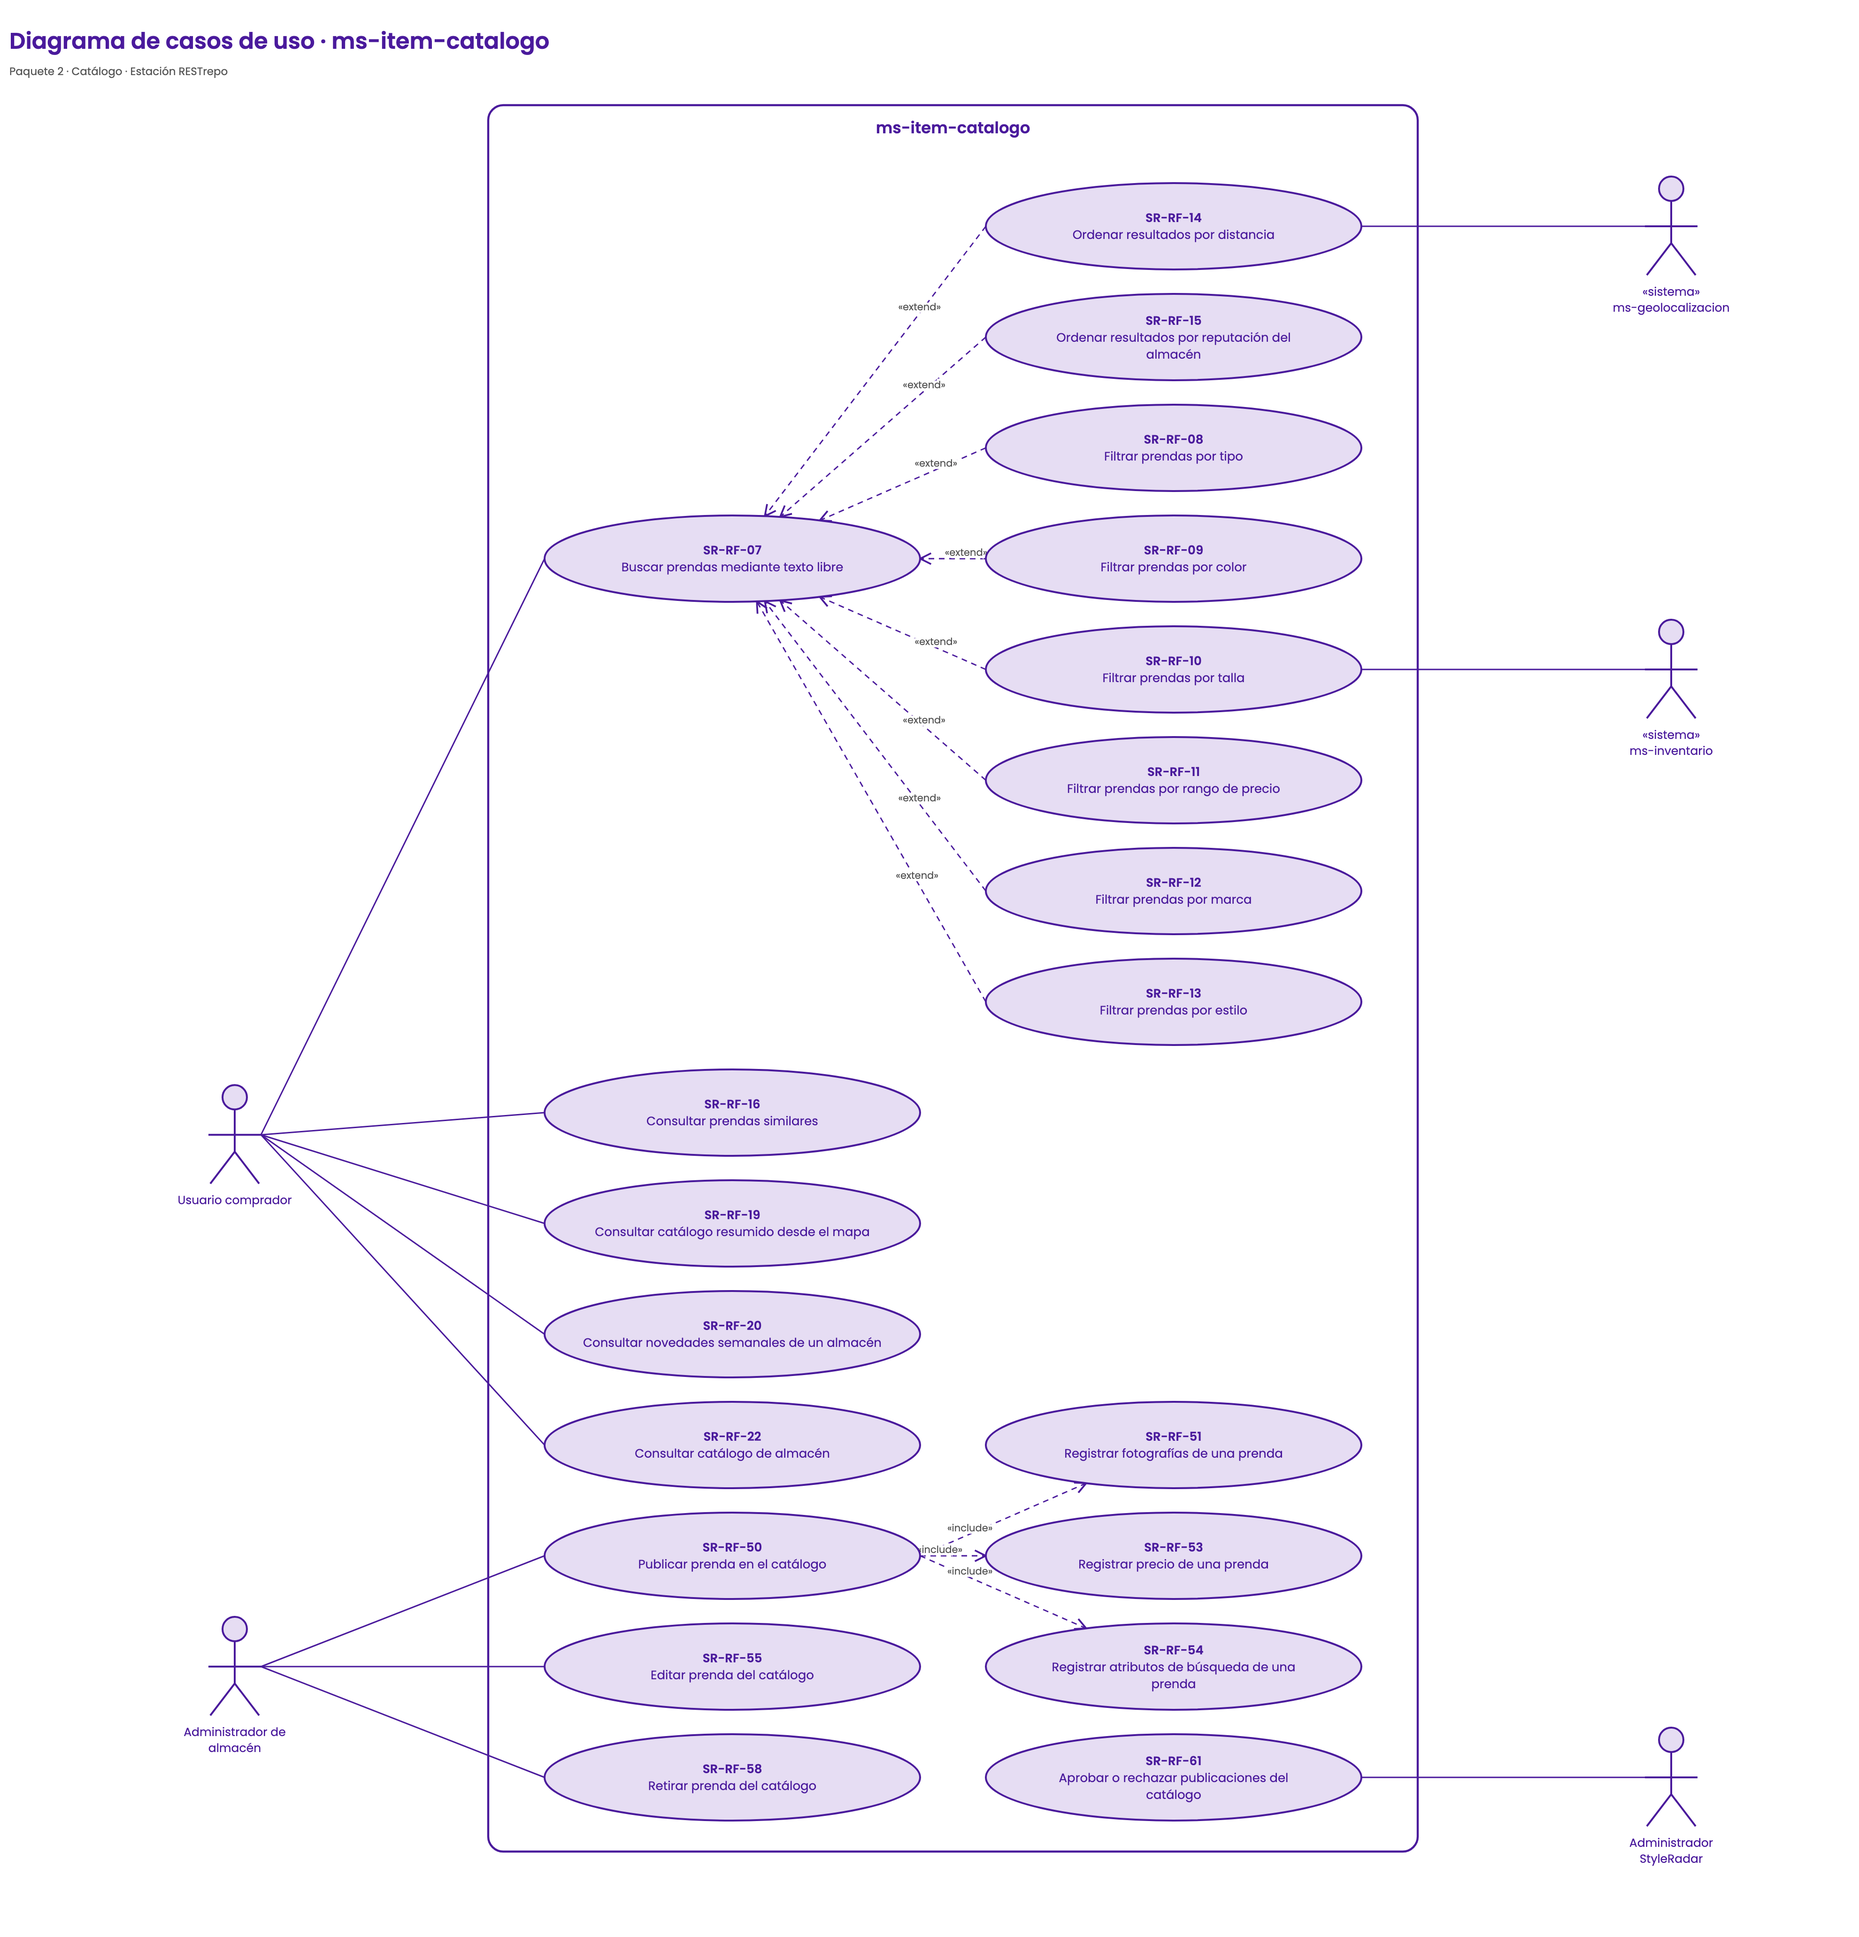
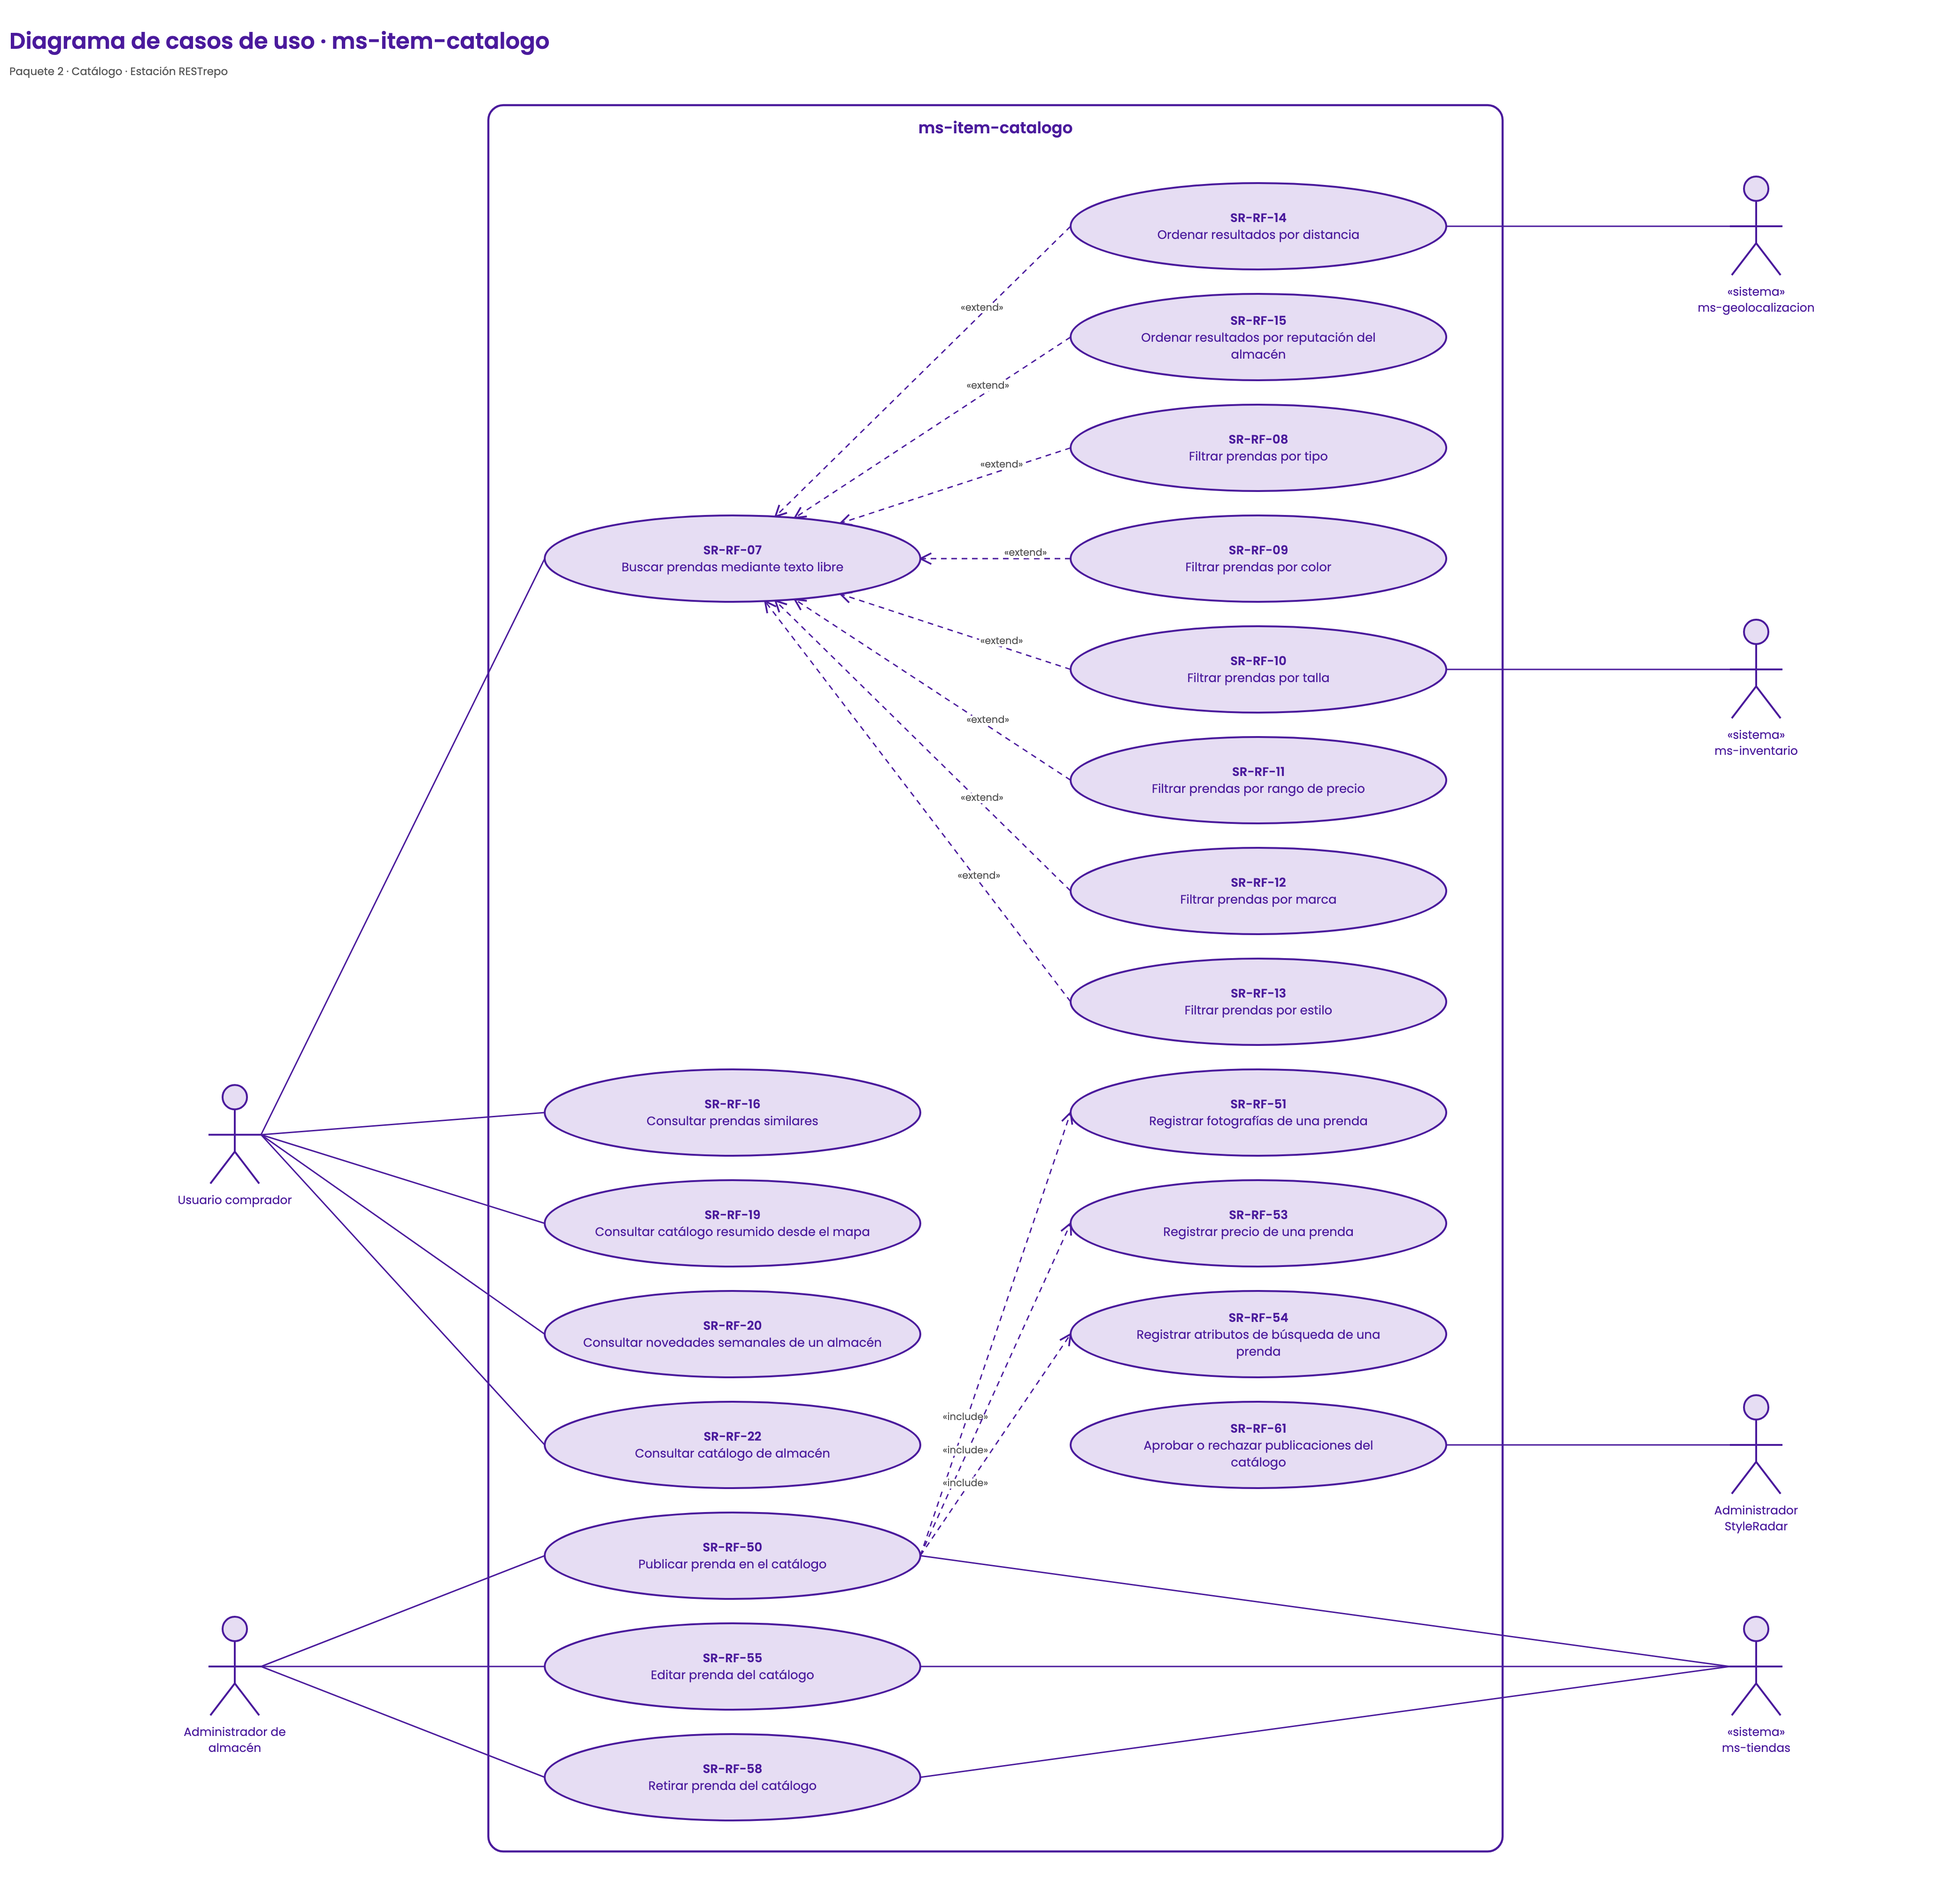
docs: add ms-tiendas to use case diagram

diff --git a/docs/03-arquitectura-hexagonal.md b/docs/03-arquitectura-hexagonal.md
@@ -20,7 +20,7 @@ El servicio sigue la arquitectura hexagonal acordada por el curso. Las reglas de
   </table>
 </div>
 
-El usuario comprador busca prendas con texto libre (SR-RF-07). Los filtros por tipo, color, talla, precio, marca y estilo (SR-RF-08 a SR-RF-13) y los ordenamientos por distancia y por reputación (SR-RF-14 y SR-RF-15) extienden la búsqueda, porque se aplican de forma opcional sobre ella. También consulta prendas similares, el catálogo resumido desde el mapa, las novedades y el catálogo de un almacén (SR-RF-16, SR-RF-19, SR-RF-20 y SR-RF-22). El administrador de almacén publica prendas (SR-RF-50), lo que siempre incluye registrar sus fotografías, su precio y sus atributos de búsqueda (SR-RF-51, SR-RF-53 y SR-RF-54), y además edita y retira sus prendas (SR-RF-55 y SR-RF-58). El administrador StyleRadar aprueba o rechaza las publicaciones (SR-RF-61). `ms-geolocalizacion` participa como sistema externo para calcular la distancia a cada almacén y `ms-inventario` para consultar tallas y unidades. Cada caso de uso lleva el código de su requerimiento en el análisis de requerimientos, los actores usan los nombres oficiales del análisis y el rectángulo marca el límite del microservicio. El archivo editable está en `docs/evidencias/diagrama-casos-uso.drawio`.
+El usuario comprador busca prendas con texto libre (SR-RF-07). Los filtros por tipo, color, talla, precio, marca y estilo (SR-RF-08 a SR-RF-13) y los ordenamientos por distancia y por reputación (SR-RF-14 y SR-RF-15) extienden la búsqueda, porque se aplican de forma opcional sobre ella. También consulta prendas similares, el catálogo resumido desde el mapa, las novedades y el catálogo de un almacén (SR-RF-16, SR-RF-19, SR-RF-20 y SR-RF-22). El administrador de almacén publica prendas (SR-RF-50), lo que siempre incluye registrar sus fotografías, su precio y sus atributos de búsqueda (SR-RF-51, SR-RF-53 y SR-RF-54), y además edita y retira sus prendas (SR-RF-55 y SR-RF-58). El administrador StyleRadar aprueba o rechaza las publicaciones (SR-RF-61). `ms-geolocalizacion` participa como sistema externo para calcular la distancia a cada almacén, `ms-inventario` para consultar tallas y unidades y `ms-tiendas` para saber cuál es el almacén del administrador al publicar, editar y retirar prendas. Cada caso de uso lleva el código de su requerimiento en el análisis de requerimientos, los actores usan los nombres oficiales del análisis y el rectángulo marca el límite del microservicio. El archivo editable está en `docs/evidencias/diagrama-casos-uso.drawio`.
 
 ### Diagrama de Componentes General
 
